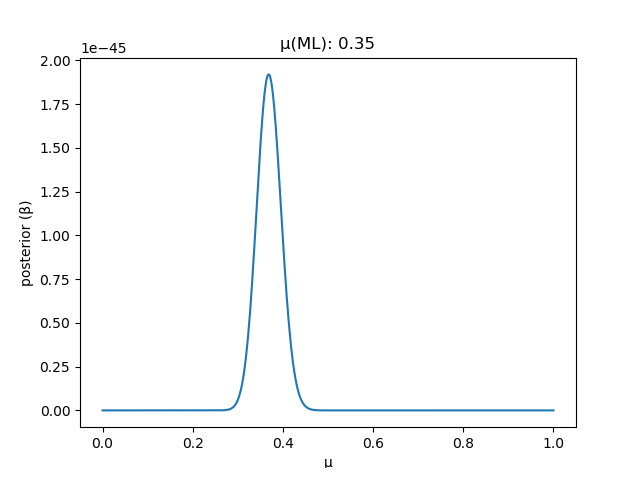
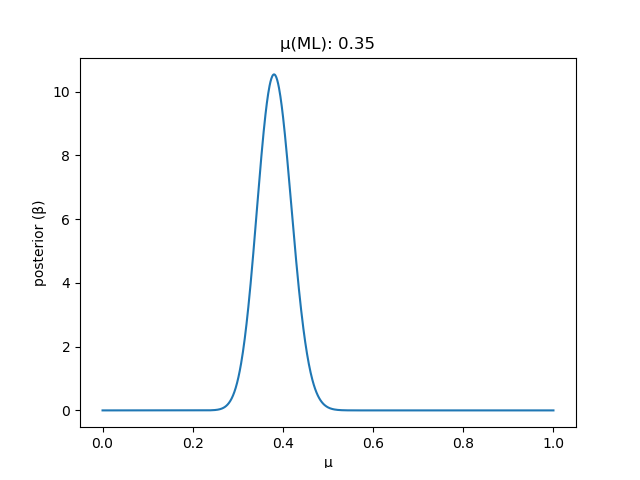
assgn-2: change error calc.

diff --git a/Assignment-2/gradient_decent.py b/Assignment-2/gradient_decent.py
@@ -6,11 +6,15 @@ import matplotlib.pyplot as plt
 data = pd.read_csv('../dataset/3D_spatial_network.csv')
 # data = pd.read_csv('../dataset/test.csv')
 N = len(data)
+data = data.sample(frac=1).reset_index(drop=True)
+print(data)
 
 train_set_size = int(0.7 * N)
 test_set_size = int(0.3 * N)
 
 # Equation: y = w1x1 + w2x2 + w0
+
+
 
 X1 = data.iloc[0: train_set_size, 1]
 X2 = data.iloc[0: train_set_size, 2]
@@ -18,7 +22,7 @@ Y = data.iloc[0: train_set_size, 3]
 
 L = 0.00000001  # Learning rate
 
-DEGREE = 2
+DEGREE = 6
 
 
 def generate_poly(degree):
@@ -51,7 +55,7 @@ def rms_calc(w):
             x1 = data.iloc[index, 1]
             x2 = data.iloc[index, 2]
             y_pred += w[tw] * math.pow(x1, coef_map[tw][1]) * math.pow(x2, coef_map[tw][2])
-        rms_error += abs(y - y_pred)
+        rms_error += ((abs(y - y_pred)) * (abs(y - y_pred)))
 
     rms_error /= test_set_size
     rms_error = math.sqrt(rms_error)
@@ -63,10 +67,9 @@ def x_calc(wn):
 
 # Weight initialization
 w = np.array([1] * w_size)
-w_new = np.array([2] * w_size)
 
 steps = 0
-steps_count = 600
+steps_count = 50000
 precision = 0.00000001
 
 x_values = []
@@ -80,39 +83,37 @@ print(x_values)
 x_axis = []
 y_axis = []
 
-while (steps < steps_count and sum([abs(x) for x in np.subtract(w, w_new)]) > precision):
+while (steps < steps_count):
 
-    print(x_values.shape)
-    print(w.shape)
+    # print(x_values.shape)
+    # print(w.shape)
 
     Y_pred = (np.matmul(x_values, w))
-    print(Y_pred)
+    # print(Y_pred)
 
     # error_func = np.multiply((-2 / train_set_size) * (Y - Y_pred), x_values.reshape(w_size, train_set_size))
     # print(error_func)
     diff = (-2 / train_set_size) * (np.array(Y) - np.array(Y_pred))
     
     # diff = diff.reshape(train_set_size, 1)
-    print("diff matrix:", diff)
-    # error_func = np.matmul(diff, x_values)
+    error_func = np.matmul(diff, x_values)
     # print("x vals", x_values.shape)
     # print("diff", diff.shape)
     # error_func = (error_func)
-    error_func = diff @ x_values
-    print("error func:", error_func)
-    
-    temp = w_new
-    w_new = w - (L * error_func)
-    w = temp
+    # error_func = diff @ x_values
+    err_func = (x_values.T) @ ((x_values @ w) - Y)
+    # print("error func:", error_func)
+
+    w = w - (L * error_func)
 
     print("step: ", steps)
-    print("delta: ", sum([abs(x) for x in np.subtract(w, w_new)]))
-    print("W new:", w_new)
+    print("W new:", w)
     print()
     steps += 1
 
-    if (steps % 100 == 0 or steps == 1 or (steps < 100 and steps % 10 == 0)):
-        err = rms_calc(w_new)
+    # if (steps % 100 == 0 or steps == 1 or (steps < 100 and steps % 10 == 0)):
+    if (steps % 10000 == 0):
+        err = rms_calc(w)
         print("error: ", err)
         x_axis.append(err)
         y_axis.append(steps)
@@ -120,7 +121,8 @@ while (steps < steps_count and sum([abs(x) for x in np.subtract(w, w_new)]) > pr
     # exit()
 
     
-print(w_new)
+print(w)
+print("error: ", rms_calc(w))
     
 # graph plotting
 plt.xlabel('Iteration:')

diff --git a/Assignment-3/part-a.py b/Assignment-3/part-a.py
@@ -2,7 +2,7 @@ import numpy as np
 from scipy.special import gamma as gm
 import matplotlib.pyplot as plt
 
-data_points = (np.random.binomial(1, 0.35, 160))
+data_points = (np.random.binomial(1, 0.5, 160))
 pdf = (np.linspace(0.0, 1.0, num=1000))
 pdf = np.sort(pdf, axis = None)
 # print(pdf)
@@ -50,15 +50,13 @@ def entire_dataset_learning(a, b):
     x_axis = []
     y_axis = []
     for u in pdf:
-        likelihood = 1
         a_temp = a
         b_temp = b
         for data in data_points:
-            likelihood *= ((u ** (data)) * ((1 - u) ** (1 - data)))
             a_temp += data
             b_temp += (1 - data)
 
-        posterior = beta_function(a_temp, b_temp, u) * likelihood
+        posterior = beta_function(a_temp, b_temp, u)
         x_axis.append(u)
         y_axis.append(posterior)
 
